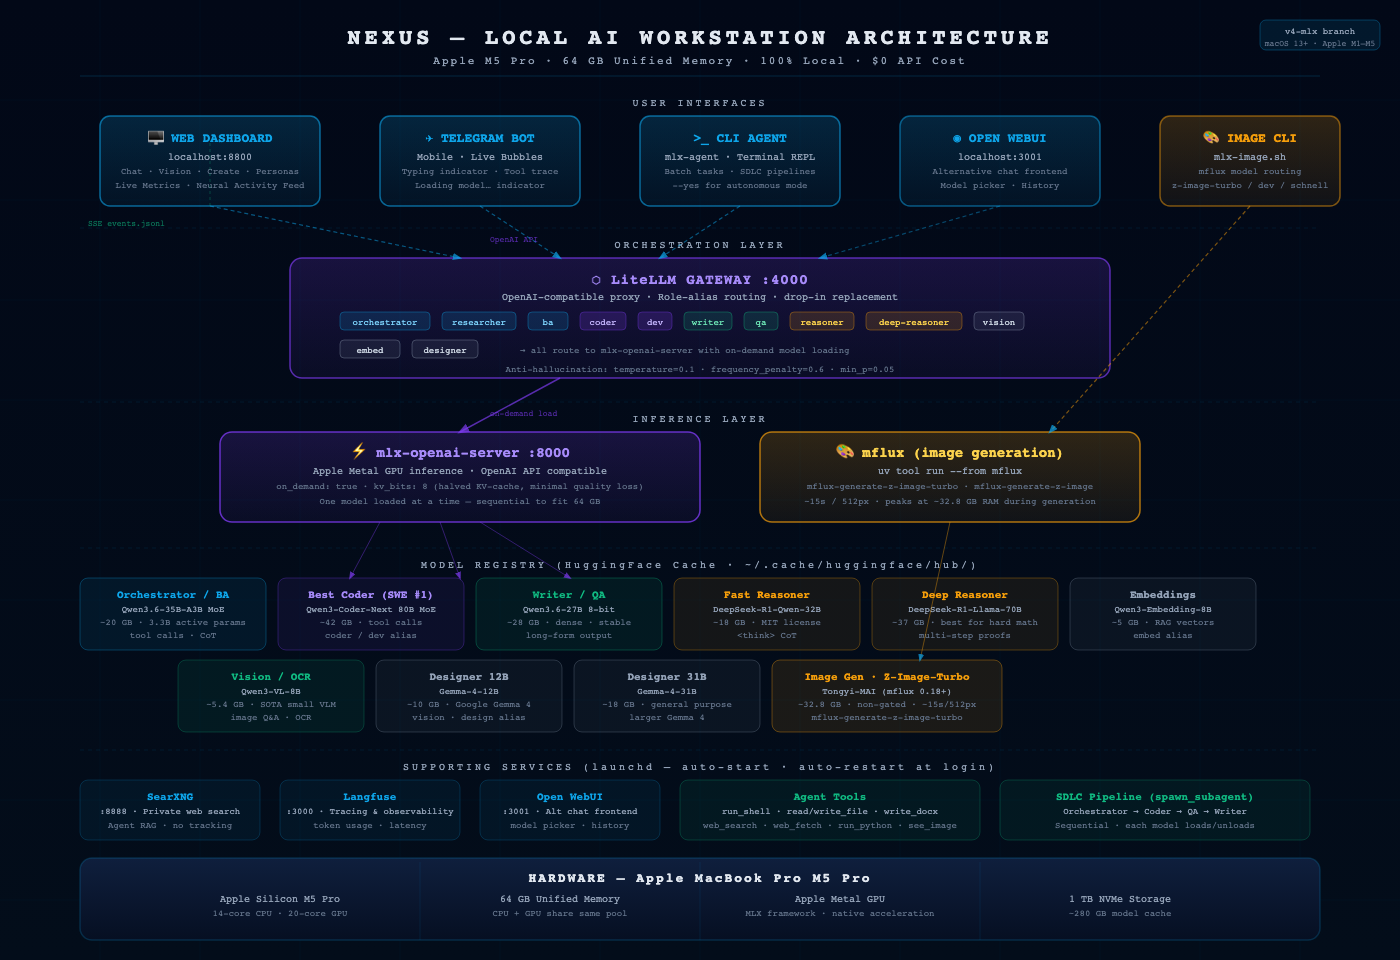
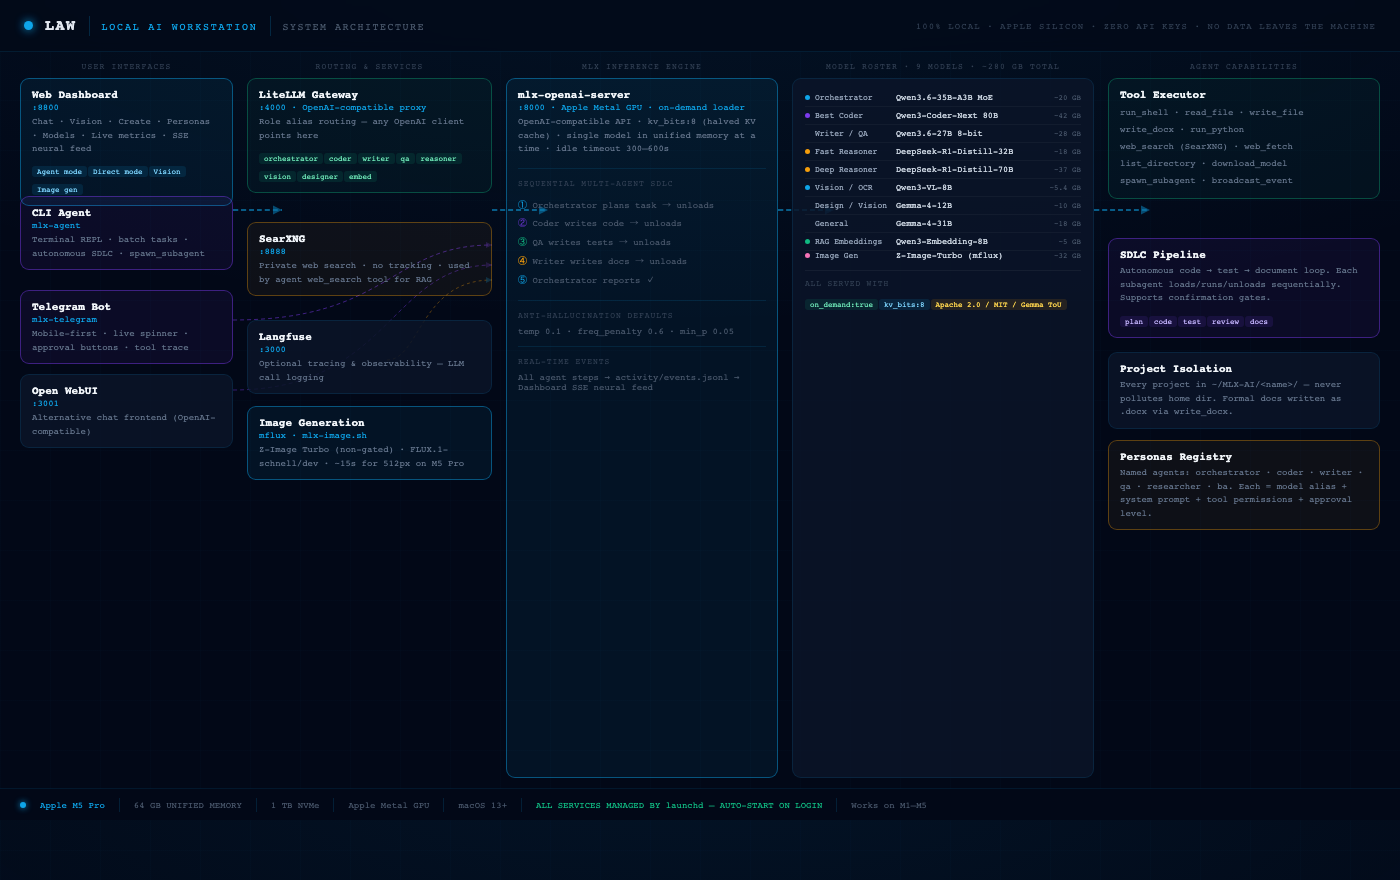
feat: LAW rebrand, remove login, futuristic welcome animation, new architecture diagram
REBRAND
- NEXUS → LAW (Local AI Workstation) across all 6 dashboard pages,
  nav header, page titles, footer, and README

AUTH
- AUTH_ON = False: login page removed; dashboard accessible directly
  at :8800 — no password prompt for local use

WELCOME ANIMATION
- Full-screen intro overlay on main dashboard first load: glowing LAW
  letters, grid background, corner brackets, scan line, "SYSTEM ONLINE"
  pulse; auto-dismisses after 3s with fade+slide; skips on subsequent
  navigation (sessionStorage)

ARCHITECTURE DIAGRAM
- Regenerated architecture.png with LAW branding: 5-column layout
  (interfaces, routing/services, MLX inference engine, 10-model roster,
  agent capabilities); all connection arrows; Apple Silicon footer bar

SCREENSHOTS (12 total)
- 6 desktop + 6 mobile; new: dashboard-subnav-mobile.png (sub-page nav
  open), dashboard-personas-dialog-mobile.png (dialog open on mobile)
- README updated with all new screenshots + descriptions

diff --git a/dashboard/app.py b/dashboard/app.py
@@ -45,7 +45,7 @@ if not _LOOPBACK and not DASH_PASSWORD:
     DASH_PASSWORD = secrets.token_urlsafe(10)
     print(f"dashboard: exposed on {DASH_HOST} with no DASHBOARD_PASSWORD set — "
           f"generated a temporary one: {DASH_PASSWORD}  (set a permanent one via ./mlx-setup.sh --configure)")
-AUTH_ON = not _LOOPBACK
+AUTH_ON = False
 
 def require_auth(f):
     @wraps(f)
@@ -312,7 +312,7 @@ def _build_nav(active: str = "") -> str:
         '<div class="snav-backdrop" id="snavBd" onclick="closeSnav()"></div>'
         '<header class="snav-hdr">'
         '<a class="snav-logo" href="/"><div class="snav-dot"></div>'
-        '<span class="snav-name">NEXUS</span></a>'
+        '<span class="snav-name">LAW</span></a>'
         f'<nav class="snav-links" id="snav">{items}</nav>'
         '<button class="snav-burger" id="snavBurger" onclick="toggleSnav()">&#9776;</button>'
         '</header>'
@@ -328,7 +328,7 @@ def _build_nav(active: str = "") -> str:
 
 PAGE = r"""<!doctype html><html lang="en"><head><meta charset="utf-8">
 <meta name="viewport" content="width=device-width,initial-scale=1">
-<title>NEXUS - AI Control Center</title>
+<title>LAW — Local AI Workstation</title>
 <link rel="preconnect" href="https://fonts.googleapis.com">
 <link href="https://fonts.googleapis.com/css2?family=Space+Grotesk:wght@400;500;600;700&family=JetBrains+Mono:wght@400;500;600&display=swap" rel="stylesheet">
 <style>
@@ -456,12 +456,56 @@ canvas.spark{width:100%;height:24px;border-radius:4px;background:rgba(255,255,25
   .main-grid{padding:10px 12px;gap:10px}
 }
 </style></head><body>
+<div id="law-intro" style="position:fixed;inset:0;z-index:99999;background:#020817;display:flex;align-items:center;justify-content:center;flex-direction:column;gap:0;font-family:'JetBrains Mono',monospace;overflow:hidden;transition:opacity .6s ease,transform .6s ease">
+<style>
+@keyframes lawGlow{0%{text-shadow:0 0 20px #0ea5e9,0 0 40px #0ea5e9;opacity:0;transform:scale(.85)}60%{opacity:1}100%{text-shadow:0 0 30px #0ea5e9,0 0 60px rgba(14,165,233,.6),0 0 100px rgba(14,165,233,.3);transform:scale(1)}}
+@keyframes lawSub{0%{opacity:0;letter-spacing:.4em}100%{opacity:1;letter-spacing:.25em}}
+@keyframes lawStatus{0%,49%{opacity:0}50%,100%{opacity:1}}
+@keyframes lawScan{0%{top:-2px}100%{top:100%}}
+@keyframes lawGrid{0%{opacity:0}100%{opacity:.04}}
+#law-letters{font-size:clamp(72px,18vw,140px);font-weight:700;color:#e2e8f0;letter-spacing:.1em;animation:lawGlow 1s .3s both}
+#law-sub-txt{font-size:clamp(9px,2.2vw,13px);color:#0ea5e9;letter-spacing:.25em;margin-top:10px;animation:lawSub .8s 1.1s both}
+#law-status{font-size:11px;color:#10b981;margin-top:28px;animation:lawStatus .5s 1.9s infinite}
+#law-scan-line{position:absolute;left:0;right:0;height:2px;background:linear-gradient(90deg,transparent,rgba(14,165,233,.6),transparent);animation:lawScan 1.5s .2s ease-in both}
+#law-grid-bg{position:absolute;inset:0;background-image:linear-gradient(rgba(14,165,233,.1) 1px,transparent 1px),linear-gradient(90deg,rgba(14,165,233,.1) 1px,transparent 1px);background-size:60px 60px;animation:lawGrid 1s .1s both}
+#law-corner{position:absolute;width:60px;height:60px;border-color:#0ea5e9;border-style:solid;border-width:0;opacity:.4}
+#law-corner.tl{top:24px;left:24px;border-top-width:2px;border-left-width:2px}
+#law-corner.tr{top:24px;right:24px;border-top-width:2px;border-right-width:2px}
+#law-corner.bl{bottom:24px;left:24px;border-bottom-width:2px;border-left-width:2px}
+#law-corner.br{bottom:24px;right:24px;border-bottom-width:2px;border-right-width:2px}
+</style>
+<div id="law-grid-bg"></div>
+<div id="law-scan-line"></div>
+<div id="law-corner" class="tl"></div>
+<div id="law-corner" class="tr"></div>
+<div id="law-corner" class="bl"></div>
+<div id="law-corner" class="br"></div>
+<div id="law-letters">LAW</div>
+<div id="law-sub-txt">LOCAL AI WORKSTATION</div>
+<div id="law-status">● SYSTEM ONLINE</div>
+<script>
+(function(){
+  if(sessionStorage.getItem('law-intro-done')){
+    document.getElementById('law-intro').style.display='none';
+    return;
+  }
+  setTimeout(function(){
+    var el=document.getElementById('law-intro');
+    el.style.transition='opacity .7s ease, transform .7s ease';
+    el.style.opacity='0';
+    el.style.transform='translateY(-30px)';
+    setTimeout(function(){el.style.display='none';},700);
+    sessionStorage.setItem('law-intro-done','1');
+  },3000);
+})();
+</script>
+</div>
 <div class="nav-backdrop" id="navBd" onclick="closeNav()"></div>
 <header class="site-header">
   <div class="logo">
     <div class="logo-dot"></div>
-    <span class="logo-name">NEXUS</span>
-    <span class="logo-sub">AI CONTROL CENTER</span>
+    <span class="logo-name">LAW</span>
+    <span class="logo-sub">LOCAL AI WORKSTATION</span>
   </div>
   <nav class="nav" id="mainNav">
     <a href="/">Dashboard</a>
@@ -553,7 +597,7 @@ canvas.spark{width:100%;height:24px;border-radius:4px;background:rgba(255,255,25
   </div>
 </div>
 
-<div class="footer" id="foot">NEXUS AI CONTROL CENTER · M5 Pro · 100% LOCAL · $0 API</div>
+<div class="footer" id="foot">LAW · LOCAL AI WORKSTATION · 100% LOCAL · $0 API</div>
 
 <script>
 const HOST=window.location.hostname||'localhost';
@@ -595,7 +639,7 @@ async function pollStatus(){
     document.getElementById('modelRoles').innerHTML=d.models.map(m=>
       '<div class="model-row"><div><div class="model-role">'+esc(m.role)+'</div><div class="model-id">'+esc(m.id)+'</div></div>'+
       '<span class="model-pill '+(m.ready?'ready':'idle')+'">'+(m.ready?'loaded':'on demand')+'</span></div>').join('');
-    document.getElementById('foot').textContent='NEXUS AI · '+up+'/'+d.services.length+' services online · M5 Pro · 100% LOCAL';
+    document.getElementById('foot').textContent='LAW · '+up+'/'+d.services.length+' services online · M5 Pro · 100% LOCAL';
     document.getElementById('statusPill').style.borderColor=up>0?'var(--green)':'var(--red)';
     document.getElementById('statusPill').querySelector('.dot2').style.background=up>0?'var(--green)':'var(--red)';
     document.getElementById('statusTxt').textContent=up>0?'ONLINE':'OFFLINE';
@@ -722,7 +766,7 @@ document.getElementById('quickIn').addEventListener('keydown',e=>{
   if(e.key==='Enter'&&!e.shiftKey){e.preventDefault();quickSend();}});
 </script></body></html>"""
 
-LOGIN_HTML = """<!doctype html><html><head><meta charset=utf-8><title>NEXUS - Sign In</title>
+LOGIN_HTML = """<!doctype html><html><head><meta charset=utf-8><title>LAW - Sign In</title>
 <meta name=viewport content="width=device-width,initial-scale=1">
 <link href="https://fonts.googleapis.com/css2?family=Space+Grotesk:wght@400;600&family=JetBrains+Mono:wght@400;600&display=swap" rel="stylesheet">
 <style>
@@ -747,7 +791,7 @@ button{margin-top:16px;width:100%;padding:11px;border:0;border-radius:8px;
 button:hover{opacity:.9;transform:translateY(-1px)}
 .err{color:#ef4444;font-size:12px;margin-top:10px;min-height:16px;font-family:'JetBrains Mono',monospace}
 </style></head>
-<body><div class=card><div class=logo><div class=ldot></div><div><div class=lname>NEXUS</div><div class=lsub>AI CONTROL CENTER</div></div></div>
+<body><div class=card><div class=logo><div class=ldot></div><div><div class=lname>LAW</div><div class=lsub>LOCAL AI WORKSTATION</div></div></div>
 <label>ACCESS KEY</label>
 <input type=password name=password placeholder="Enter password" autofocus form=f>
 <div class=err><!--err--></div>
@@ -1177,7 +1221,7 @@ loadCached();
 
 VISION_PAGE = r"""<!doctype html><html lang="en"><head><meta charset="utf-8">
 <meta name="viewport" content="width=device-width,initial-scale=1">
-<title>Vision - NEXUS</title>
+<title>Vision - LAW</title>
 <link href="https://fonts.googleapis.com/css2?family=Space+Grotesk:wght@400;500;600&family=JetBrains+Mono:wght@400;500;600&display=swap" rel="stylesheet">
 <!--NAV_CSS-->
 <style>
@@ -1262,7 +1306,7 @@ async function run(){
 
 CHAT_PAGE = r"""<!doctype html><html lang="en"><head><meta charset=utf-8>
 <meta name=viewport content="width=device-width,initial-scale=1">
-<title>NEXUS Chat</title>
+<title>LAW Chat</title>
 <link href="https://fonts.googleapis.com/css2?family=Space+Grotesk:wght@400;500;600&family=JetBrains+Mono:wght@400;500;600&display=swap" rel="stylesheet">
 <!--NAV_CSS--><style>
 :root{--bg:#020817;--surf:#0a1628;--card:rgba(13,30,53,.9);--bdr:rgba(14,165,233,.13);
@@ -1354,7 +1398,7 @@ body.drag{outline:3px dashed var(--purple);outline-offset:-4px}
 <!--NAV-->
 <div class="hdr">
 <a class="hdr-back" href="/">&#8592;</a>
-<span class="hdr-logo"><span>NEXUS</span> CHAT</span>
+<span class="hdr-logo"><span>LAW</span> CHAT</span>
 <span class="hdr-sep">|</span>
 <div class="mode-toggle on" id="modeBtn" onclick="toggleMode()">&#127760; Agent</div>
 <select id=model style="max-width:200px"></select>

diff --git a/README.md b/README.md
@@ -1,8 +1,8 @@
-# NEXUS — Local AI Workstation
+# LAW — Local AI Workstation
 
 > 100% local AI stack on Apple Silicon. No API keys, no billing, no data leaving your machine.
 
-A production-grade local AI setup for Apple M-series Macs. One command brings up a multi-agent orchestrator backed by 9 models, a futuristic web dashboard, a Telegram bot, image generation, vision analysis, and full autonomous SDLC capability.
+A production-grade local AI setup for Apple M-series Macs. One command brings up a multi-agent orchestrator backed by 9 models, a futuristic web dashboard (**LAW**), a Telegram bot, image generation, vision analysis, and full autonomous SDLC capability.
 
 ---
 
@@ -19,17 +19,17 @@ Full stack: user interfaces → LiteLLM role-alias gateway → mlx-openai-server
 ### Main Dashboard
 ![Main Dashboard](screenshots/dashboard-main.png)
 
-Three-column layout: **System Core** (service health, model roster) · **Neural Activity** (live SSE event feed + active agent tracker) · **Command** (quick dispatch + 6-metric sparklines: CPU, Memory with GB, Battery with time remaining, Storage with GB, Disk I/O, Network I/O).
+Three-column layout: **System Core** (service health, model roster) · **Neural Activity** (live SSE event feed + active agent tracker) · **Command** (quick dispatch + 6-metric sparklines: CPU, Memory with GB, Battery, Storage with GB, Disk I/O, Network I/O).
 
 ### Chat
 ![Chat](screenshots/dashboard-chat.png)
 
-Full-screen chat in **Agent** mode (tool-calling with thinking panel + step trace) or **Direct** mode (raw model, faster). Supports image attachments for vision-capable models. Sticky nav stays accessible from all pages.
+Full-screen chat in **Agent** mode (tool-calling with thinking panel + step trace) or **Direct** mode (raw model, faster). Supports image attachments for vision-capable models.
 
 ### Vision Analysis
 ![Vision Page](screenshots/dashboard-vision.png)
 
-Drop an image, pick a vision model from the dropdown (no free-typing = no typos), ask a question. Runs Qwen3-VL-8B or Gemma-4 locally. No data leaves the machine.
+Drop an image, pick a vision model from the dropdown, ask a question. Runs Qwen3-VL-8B or Gemma-4 locally. No data leaves the machine.
 
 ### Image Generation
 ![Create Page](screenshots/dashboard-create.png)
@@ -39,25 +39,42 @@ Text-to-image with Z-Image Turbo. Configure steps, resolution, seed. ~15 seconds
 ### Personas
 ![Personas](screenshots/dashboard-personas.png)
 
-Create and edit agent personas — each is a name + model alias + system prompt + allowed tools. The same tool loop runs any persona; switching just changes what model and instructions are used.
+Create and edit agent personas — each is a name + model alias + system prompt + allowed tools.
 
 ### Models
 ![Models](screenshots/dashboard-models.png)
 
 Search HuggingFace, download new models, probe-load to test, and register into the serving config — all from the browser.
 
-### Mobile View
+### Mobile — Dashboard
 ![Mobile Dashboard](screenshots/dashboard-mobile.png)
 
-Hamburger menu collapses the nav on small screens. Chat and all sub-pages are fully usable on mobile.
+On mobile the cards reorder: **Command** first (quick dispatch + metrics), then Neural Activity, then System Core. Hamburger nav in the top-right.
 
+### Mobile — Nav Open
 ![Mobile Nav Open](screenshots/dashboard-mobile-nav.png)
 
-Floating nav overlay — drops over content without pushing the layout, with a blurred backdrop to dismiss.
+Floating nav overlay — drops over content without pushing the layout, blurred backdrop to dismiss.
 
-![Personas on Mobile](screenshots/dashboard-personas-mobile.png)
+### Mobile — Sub-page Nav
+![Sub-page Nav](screenshots/dashboard-subnav-mobile.png)
 
-Personas edit dialog on mobile — internally scrollable with sticky Save/Cancel buttons, single-column layout, and `font-size:16px` inputs to prevent iOS auto-zoom.
+Every sub-page (Chat, Vision, Create, Personas, Models) has the same floating LAW nav, fixed to the top of the viewport.
+
+### Mobile — Chat
+![Chat Mobile](screenshots/dashboard-chat-mobile.png)
+
+Chat on mobile — compact header (mode toggle + model select only), internal scroll thread, full-height viewport with iOS `100dvh` fix.
+
+### Mobile — Personas List
+![Personas Mobile](screenshots/dashboard-personas-mobile.png)
+
+Personas list on mobile — single-column card grid.
+
+### Mobile — Personas Dialog
+![Personas Dialog Mobile](screenshots/dashboard-personas-dialog-mobile.png)
+
+Personas edit dialog on mobile — internally scrollable with sticky Save/Cancel footer, single-column layout, `font-size:16px` inputs to prevent iOS auto-zoom.
 
 ---
 
@@ -151,7 +168,7 @@ Per-model temperature overrides are applied where needed (e.g. embeddings → 0.
 |---|---|---|
 | mlx-openai-server | 8000 | Apple Metal inference, OpenAI API |
 | LiteLLM Gateway | 4000 | Role-alias routing, drop-in OpenAI proxy |
-| NEXUS Dashboard | 8800 | Full web UI |
+| LAW Dashboard | 8800 | Full web UI |
 | Open WebUI | 3001 | Alternative chat frontend |
 | SearXNG | 8888 | Private web search for agent RAG |
 | Langfuse | 3000 | Optional tracing / observability |
@@ -198,7 +215,7 @@ Prompts for `DASHBOARD_PASSWORD`, `TELEGRAM_BOT_TOKEN`, and `TELEGRAM_USER_ID`. 
 
 ## Usage
 
-### Web Dashboard — `http://localhost:8800`
+### LAW Dashboard — `http://localhost:8800`
 
 | Page | What it does |
 |---|---|
